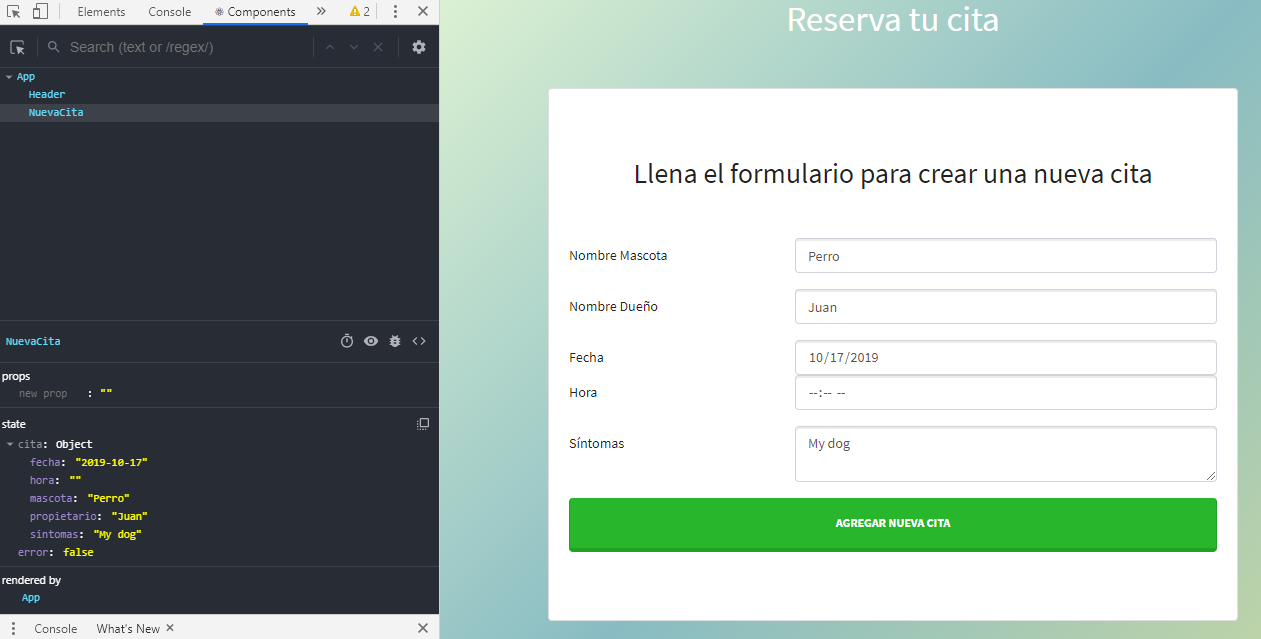
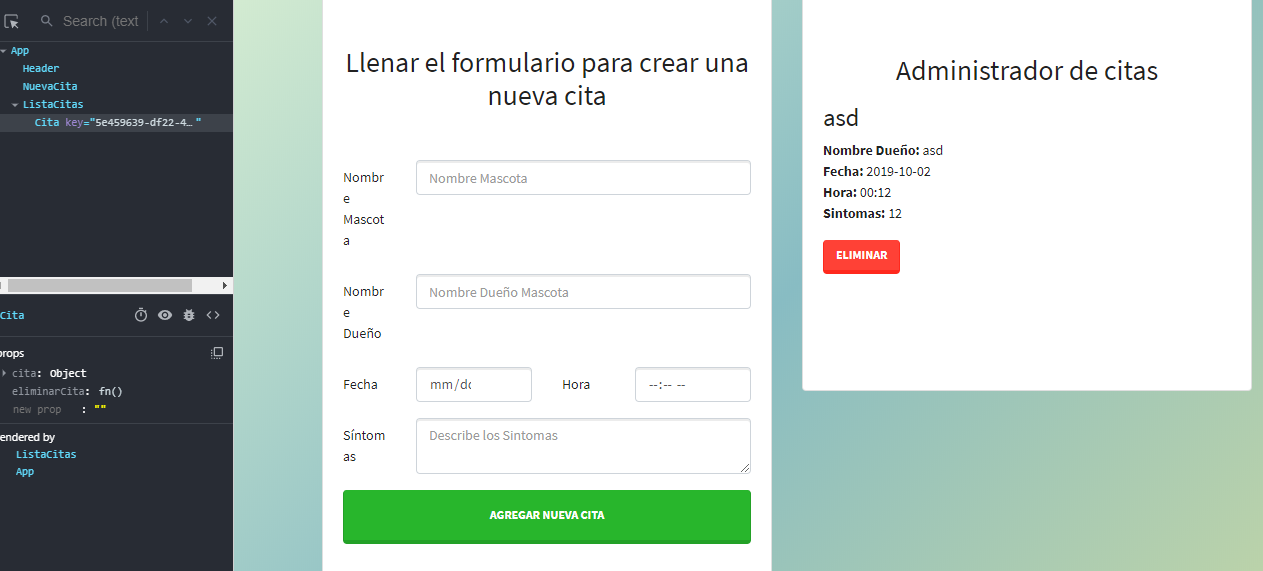
Ending my app with reactjs, Method of cycle life in reactjs

diff --git a/05-second-project/src/App.js b/05-second-project/src/App.js
@@ -1,32 +1,80 @@
 import React, { Component } from 'react';
 import './bootstrap.min.css';
-import NuevaCita from './components/NuevaCita';
 import Header from './components/Header';
+import NuevaCita from './components/NuevaCita';
+import ListaCitas from './components/ListaCitas';
 
 class App extends Component {
   state = { 
     citas : []
    }
 
+   // Al cargar la aplicacion
+   componentDidMount(){
+    const citasLS = localStorage.getItem('citas');
+    if(citasLS){
+      this.setState({
+        citas: JSON.parse(citasLS)
+      })
+    }
+   }
+
+  // Cuando eliminamos o agregamos una nueva cita
+   componentDidUpdate(){
+     localStorage.setItem('citas', JSON.stringify(this.state.citas));
+   }
+
    // este tomara los datos para la nueva cita 
    crearNuevaCita = datos => {
-     // copiar el state actual // es recomendable
+    // copiar el state actual // es recomendable
+     // parecido a un push
     const citas = [...this.state.citas, datos];
-     // agregar nuevo state
+   
+    // agregar nuevo state
      this.setState({ 
        citas
      })
    }
+
+   // elimina las citas del state
+   eliminarCita = id => {
+     // tomar una copia del state
+     const citasActuales = [...this.state.citas];
+    
+     // Utilizar filter para poder tomar elemneto id delo array
+    const citas = citasActuales.filter(cita => cita.id !== id)
+
+
+     // Actualiar el state 
+     this.setState({
+       citas
+     })
+    
+
+   }
+
   render() { 
     return ( 
       <div className="container">
         <Header 
-          titulo='Reserva tu cita'
+          titulo='Sistema de reservación de citas con REACT'
         />
-        <NuevaCita 
-          crearNuevaCita={this.crearNuevaCita}
-        />
-      </div>
+        
+        <div className="row">
+          <div className="col-md-6 mx-auto">
+            <NuevaCita 
+              crearNuevaCita={this.crearNuevaCita}
+            />
+          </div>  
+
+          <div className="mt-5 col-md-6 mx-auto">
+            <ListaCitas 
+              citas={this.state.citas}
+              eliminarCita={this.eliminarCita}
+            />
+          </div>
+        </div>  
+      </div> 
      );
   }
 }

diff --git a/05-second-project/src/components/Cita.js b/05-second-project/src/components/Cita.js
@@ -1,0 +1,20 @@
+import React from 'react';
+
+const Cita = ({cita, eliminarCita}) => (
+    <div className="media mt-3">
+        <div className="media-body">
+            <h3 className="mt-0">{cita.mascota}</h3>
+            <p className="card-text"><span>Nombre Dueño: </span>{cita.propietario}</p>
+            <p className="card-text"><span>Fecha: </span>{cita.fecha}</p>
+            <p className="card-text"><span>Hora: </span>{cita.hora}</p>
+            <p className="card-text"><span>Sintomas: </span>{cita.sintomas}</p>
+            
+            {/* Con un arrow function podemos esperar a que se ejecute el evento */}
+            <button className="btn btn-danger" onClick={() => eliminarCita(cita.id)}>
+                Eliminar
+            </button>
+        </div>
+    </div>
+);
+ 
+export default Cita;

diff --git a/05-second-project/src/components/ListaCitas.js b/05-second-project/src/components/ListaCitas.js
@@ -1,0 +1,22 @@
+import React from 'react';
+import Cita from './Cita';
+
+const ListaCitas = ({citas, eliminarCita}) => (
+    <div className="card mt-2 py-5">
+        <div className="card-body">
+            <h2 className="card-title text-center">Administrador de citas</h2>
+
+            <div className="lista-citas">
+                {citas.map(cita => (
+                    <Cita 
+                        key={cita.id}
+                        cita={cita}
+                        eliminarCita={eliminarCita}
+                    />
+                ))}
+            </div>
+        </div>
+    </div>
+);
+ 
+export default ListaCitas;

diff --git a/05-second-project/src/components/NuevaCita.js b/05-second-project/src/components/NuevaCita.js
@@ -40,10 +40,6 @@ class NuevaCita extends Component {
             this.setState({
                 error: true
             });
-        }else{
-            this.setState({
-                error: false
-            })
 
             return;
         }
@@ -51,6 +47,7 @@ class NuevaCita extends Component {
         // generar objeto con los datos
         const nuevaCita = {...this.state.cita};
         nuevaCita.id = uuid();
+
          // Agregar al state
          this.props.crearNuevaCita(nuevaCita);
 

diff --git a/README.md b/README.md
@@ -709,4 +709,22 @@ React cuenta con los siguientes eventos, los cueales comienzan con `on`, los uti
 - onChange
 - onSubmit
 
+With a arrow function we can to wait what be activated
 
+```js
+onClick={() => evento(parametros)}
+```
+
+Los spread operators, nos permiten duplicar los arreglos, en estos casos en los states
+
+```js
+...state
+```
+
+**Importante** Nunca se le debe hacer cambios directamente al state, siempre que se modifique es bueno hacerle una copia.
+
+**Importante** Si quieres pasar algo que tienen los props, de un componente a otro, tienes que pasar por cada uno de ellos, esto se soluciona con algo que se conoce como **context**.
+
+## Methods of cycle of life in Reactjs
+
+`componentDidMount`
